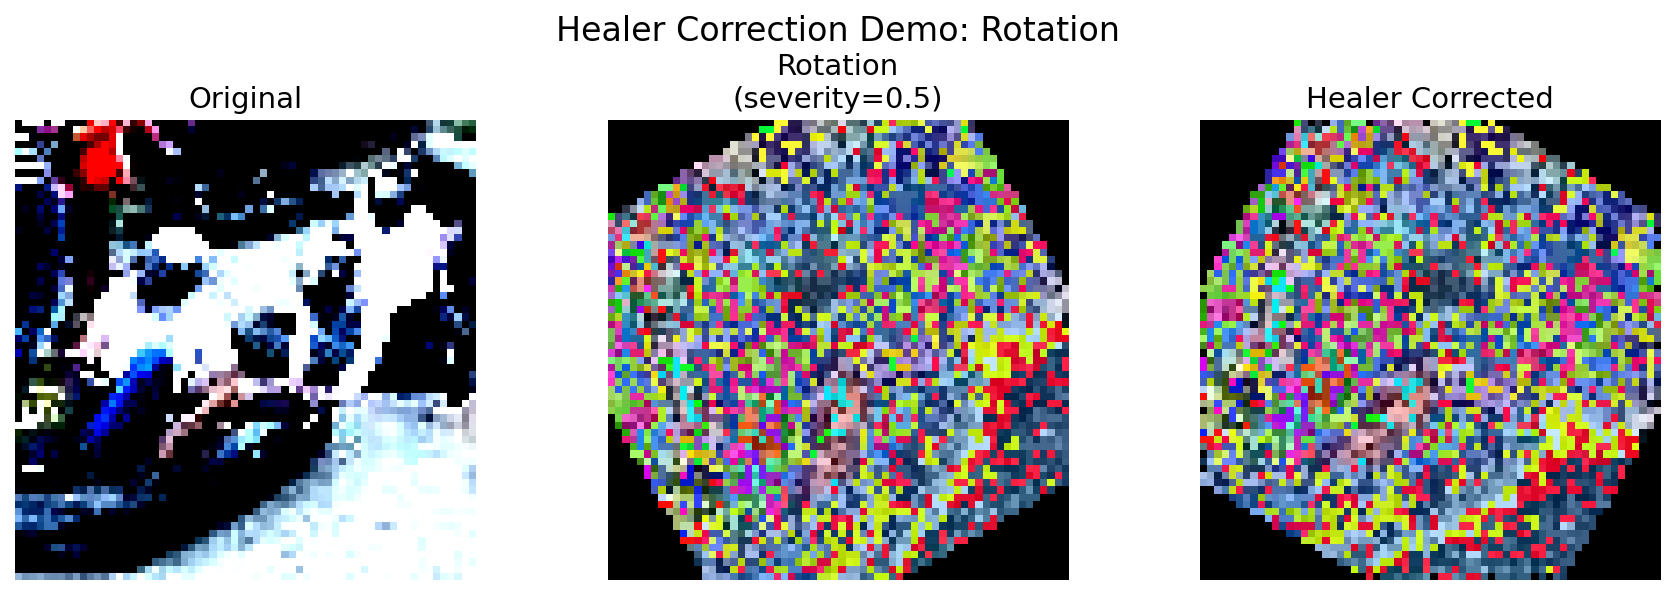
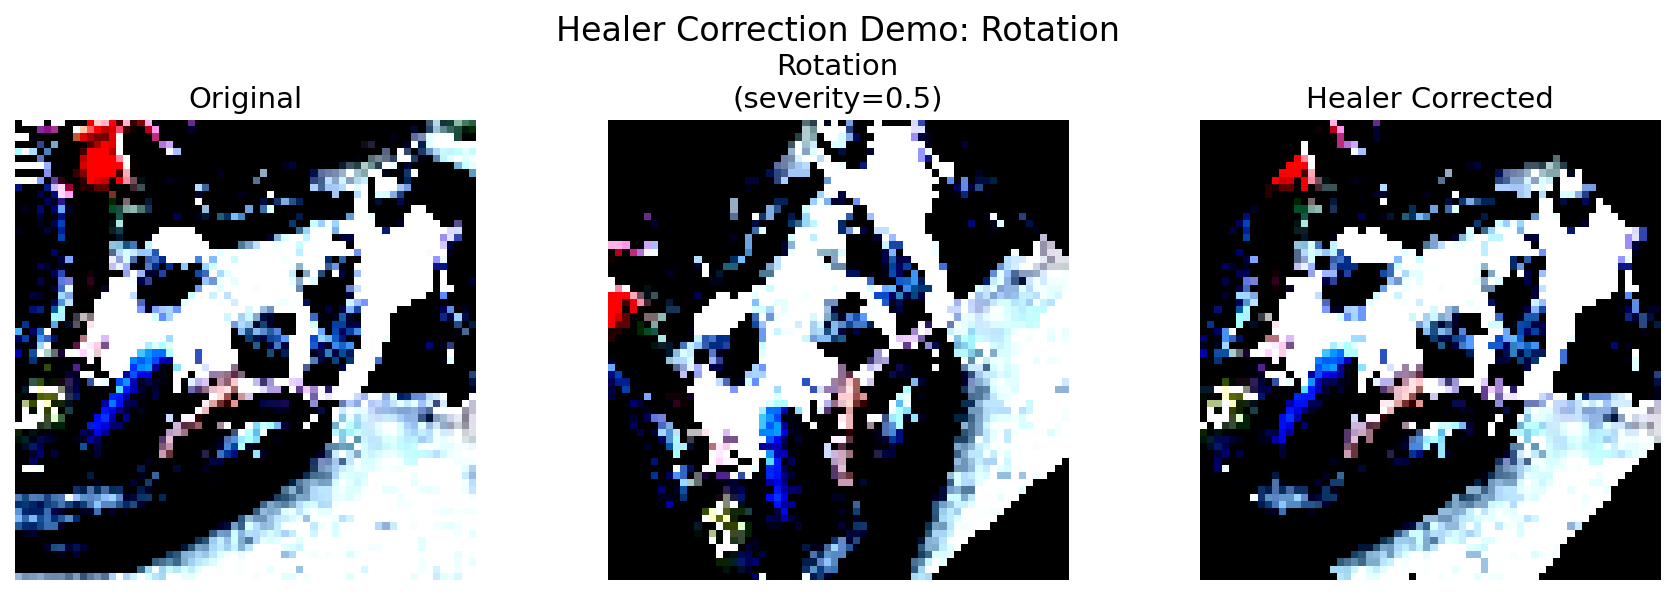
changing to bilateral filter
I am changing the healers to use bilateral filter
non local mean might be better but is slower

diff --git a/rendu/src/models/healer_transforms.py b/rendu/src/models/healer_transforms.py
@@ -237,7 +237,7 @@ class HealerTransforms:
                                device: Optional[torch.device] = None) -> torch.Tensor:
         """
         Apply denoising to remove Gaussian noise from an image
-        (Kept for backward compatibility - redirects to wiener method)
+        (Now uses bilateral filter for edge-preserving denoising)
         
         Args:
             image: Input image tensor [C, H, W] or [B, C, H, W]
@@ -248,7 +248,7 @@ class HealerTransforms:
             Denoised image tensor
         """
         return HealerTransforms.apply_wiener_denoising(
-            image, noise_std, method='wiener', device=device
+            image, noise_std, method='bilateral', device=device
         )
     
     @staticmethod

diff --git a/rendu/src/visualize_denoising_single.py b/rendu/src/visualize_denoising_single.py
@@ -37,7 +37,7 @@ def visualize_denoising_methods():
                   'dog', 'frog', 'horse', 'ship', 'truck']
     label = class_names[labels[0].item()]
     
-    noise_std = 0.3
+    noise_std = 0.1
     noise = torch.randn_like(original) * noise_std
     noisy = original + noise
     noisy = torch.clamp(noisy, 0, 1)
